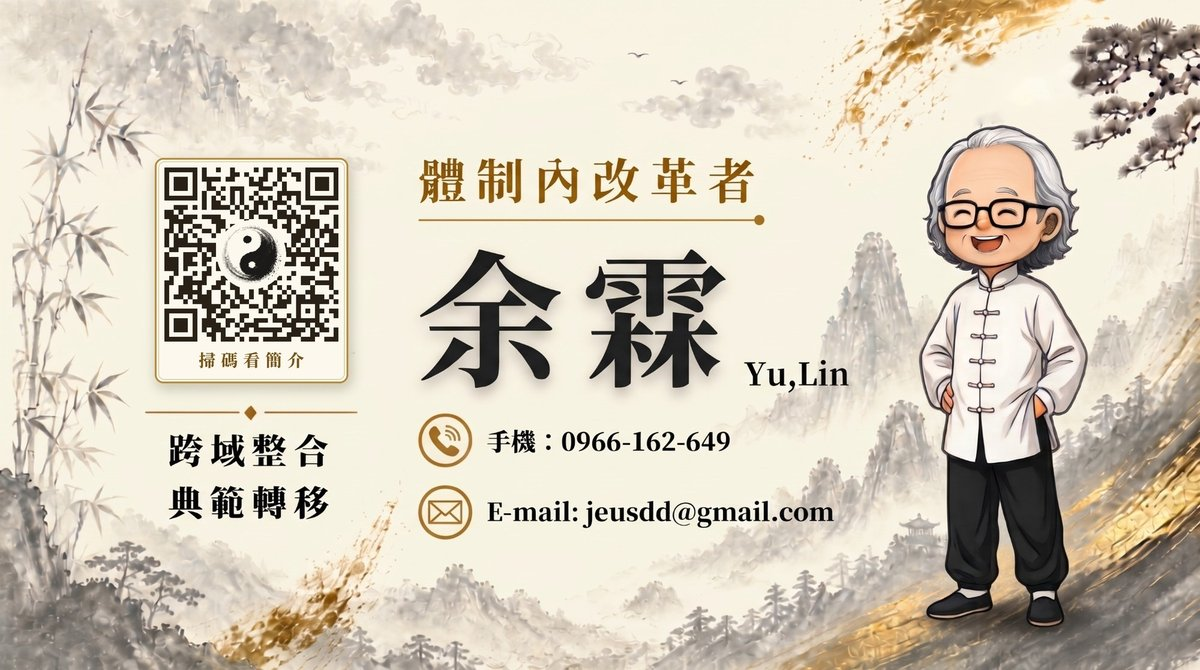
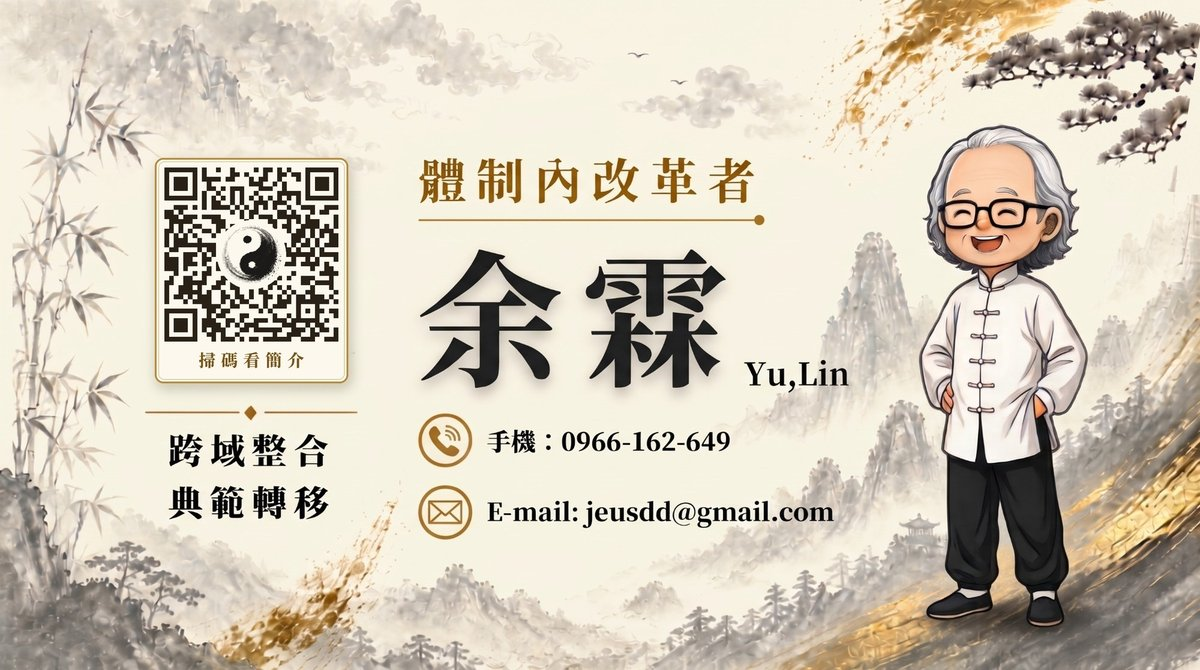
名片松枝整枝抬高保留延伸感，清除頭頂髒點

Changed region(s): [[0.8017, 0.0, 1.0, 0.2985]]

diff --git a/index.html b/index.html
@@ -8,7 +8,7 @@
 <meta property="og:title" content="余霖｜體制內改革者">
 <meta property="og:description" content="臺北市政府教育局聘任督學・前大直高中校長・木鐸獎得主">
 <meta property="og:type" content="profile">
-<meta property="og:image" content="https://sherryliao0930.github.io/yu-lin/card.jpg?v=20261107d">
+<meta property="og:image" content="https://sherryliao0930.github.io/yu-lin/card.jpg?v=20261107e">
 <meta name="theme-color" content="#f5efe2">
 <meta name="color-scheme" content="light">
 <link rel="preconnect" href="https://fonts.googleapis.com">
@@ -310,11 +310,11 @@ footer{margin-top:clamp(80px,12vw,130px);padding:clamp(56px,8vw,90px) 0 64px;bor
 <footer id="contact">
   <div class="wrap">
     <div class="head"><h2>電子名片</h2><small>CONTACT</small></div>
-    <figure class="namecard"><img src="namecard.jpg?v=20261107d" width="2000" height="1116" alt="余霖名片：體制內改革者，跨域整合・典範轉移，手機 0966-162-649，E-mail jeusdd@gmail.com"></figure>
+    <figure class="namecard"><img src="namecard.jpg?v=20261107e" width="2000" height="1116" alt="余霖名片：體制內改革者，跨域整合・典範轉移，手機 0966-162-649，E-mail jeusdd@gmail.com"></figure>
     <div class="foot-actions">
       <button class="btn solid" type="button" id="saveContact">存入通訊錄</button>
       <button class="btn" type="button" data-share>分享名片</button>
-      <a class="btn" href="namecard.jpg?v=20261107d" download="余霖電子名片.jpg">下載名片</a>
+      <a class="btn" href="namecard.jpg?v=20261107e" download="余霖電子名片.jpg">下載名片</a>
     </div>
   </div>
 </footer>
